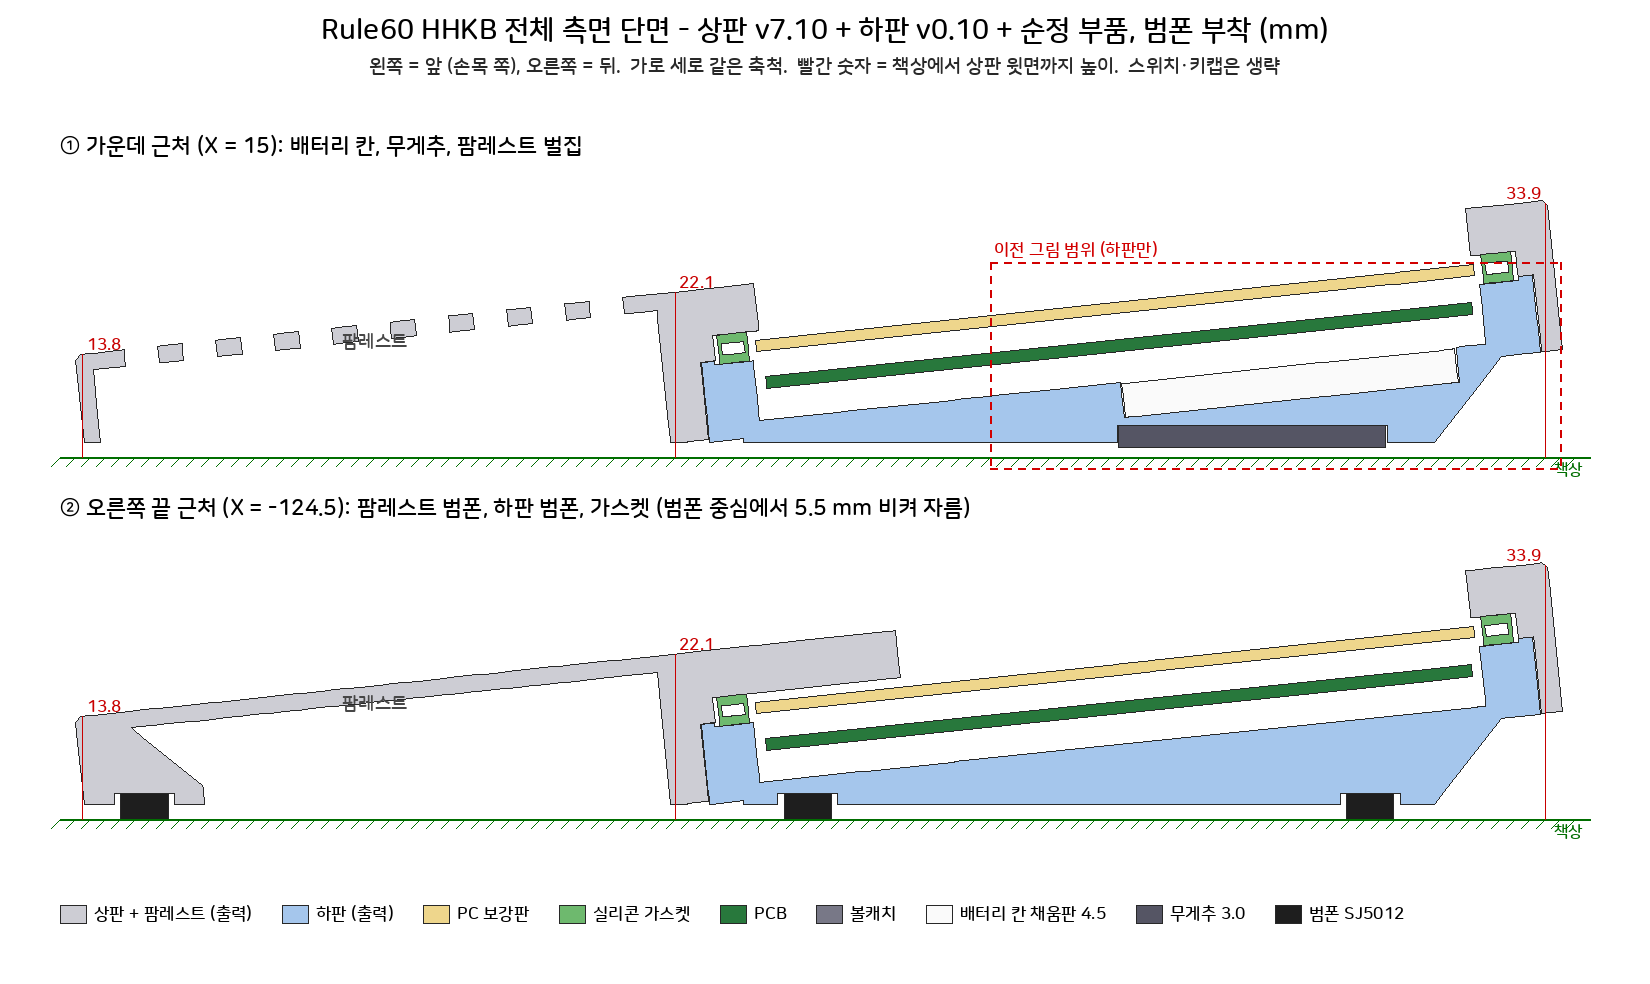
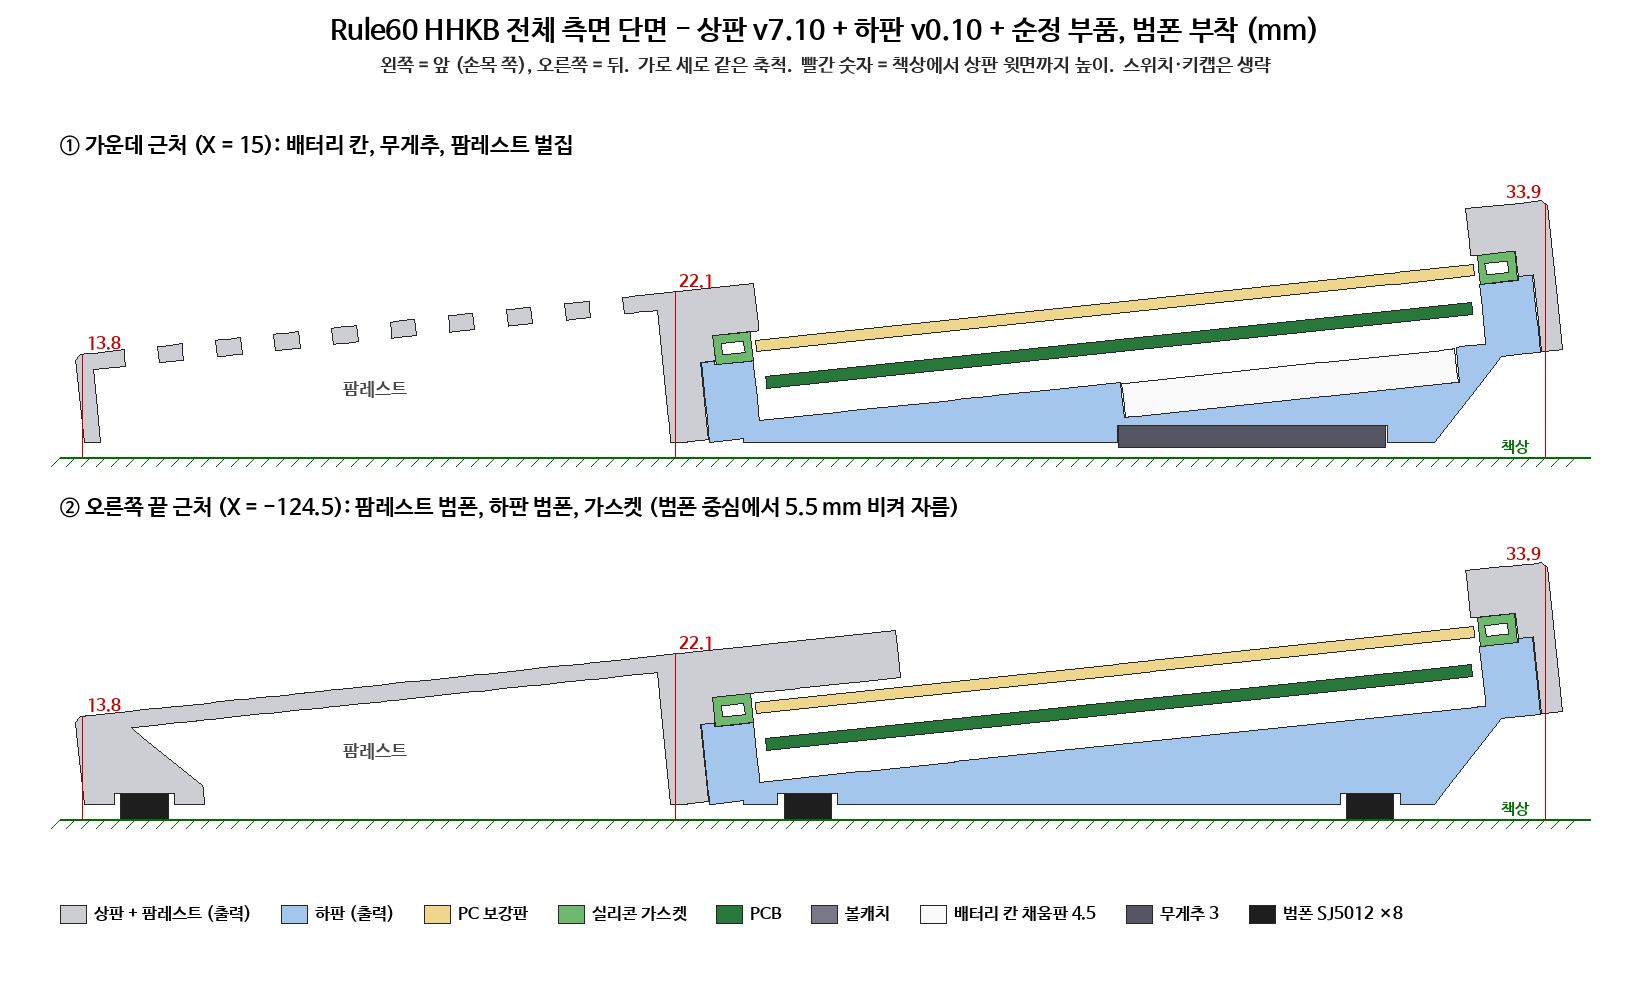
Re-render every model-derived evidence figure from top case v7.10 / bottom case v0.10
Bottom case: v0.7-end, v0.7-underside-plan, v0.8-seam-plan, v0.8-exploded
become v0.10-* (corner-only bumpons, 2.3 mm weight recess, 4.69 bay, named
seam catches); v0.10-full-side-section now cuts the manifold3d top case and
the current Keebox caps, without the stale 'previous crop' box.
Top case: seams-v7.4 -> seams-v7.10, outline-overlay-v4 -> v7.10 (edges at
true Z_p, measured photo-model gaps in the legend), strike-pocket-fit-v4.3 ->
v7.10 (Z_p 5.92 sections, ray-cast of the current mesh into IMG_0218/0222 with
the original camera poses, misfit 0.149 / 0.366). References in
evidence/topcase/README.md and the spec source string follow the new names.
Measurement guides and the annotated stock photo are unchanged: they are not
model renders.

diff --git a/evidence/topcase/README.md b/evidence/topcase/README.md
@@ -57,7 +57,7 @@ Readings not used:
 | --- | --- | --- |
 | Strike positions (plate frame) | BL 89.85, BR 196.70, FL 90.22, FR 196.28 | Homography of [IMG_0201](photos/IMG_0201.jpg) on the 8 top-mount holes of the DWG `6095(top)` plate, RMS 0.13 mm ([ball-catch-analysis.json](analysis/ball-catch-analysis.json)) |
 | Strike plate | ~20.5 × 6.55 mm, M2 at 13.0 mm pitch, tongue 3.55 × ~5.7 mm | Same analysis plus two-view silhouette fit of IMG_0218 / IMG_0222 |
-| Strike pocket "mushroom" end reliefs | 7.25 wide, 4.1 lobe 4.55 past the plate end, end wall 2.15 past, R0.85 shoulder | Two-view ray-cast silhouette fit, IMG_0218 + IMG_0222 (13 mm-eq. ultra-wide, f = 1485 px) ([fit](analysis/strike-pocket-fit-v4.3.png)) |
+| Strike pocket "mushroom" end reliefs | 7.25 wide, 4.1 lobe 4.55 past the plate end, end wall 2.15 past, R0.85 shoulder | Two-view ray-cast silhouette fit, IMG_0218 + IMG_0222 (13 mm-eq. ultra-wide, f = 1485 px) ([fit](analysis/strike-pocket-fit-v7.10.png)) |
 | Back strike distance from the inner back wall | BL 4.15, BR 4.30 | Same fit; kept when the measured outline moved the wall |
 | Front strike distance from the inner front wall | 4.26 | **Not measured**: centred between the front wall and the plate edge |
 | Silicone gasket cap | 8.3 × 5.5 × 4.5 free; 8.2 × 4.0 footprint (the pocket basis). The part itself is the Keebox cap, 8.0 × 5.0 × 5.0 with a 6.5 × 2.8 × 1.2 slot (listing drawing; the owner confirmed it as the stock cap, 2026-11-01) | Rectified underside photo, 28 px/mm ([annotated](analysis/underside-photo-annotated.jpg)) |
@@ -98,14 +98,14 @@ strikes are nearly symmetric, so it could not reveal the v6.2 mirror image.
 | File | Content |
 | --- | --- |
 | [underside-photo-annotated.jpg](analysis/underside-photo-annotated.jpg) | Rectified stock underside with gasket caps, strikes and holes marked |
-| [outline-overlay-v4.png](analysis/outline-overlay-v4.png) | v4 model outline over the rectified photo (superseded outline; shows the method) |
-| [strike-pocket-fit-v4.3.png](analysis/strike-pocket-fit-v4.3.png) | Two-view strike-pocket silhouette fit |
+| [outline-overlay-v7.10.png](analysis/outline-overlay-v7.10.png) | v7.10 model edges at their true depth over the rectified photo, coloured by Z_p level; photo − model edge gaps −0.90 to +0.48 mm, largest at the front lip |
+| [strike-pocket-fit-v7.10.png](analysis/strike-pocket-fit-v7.10.png) | Two-view strike-pocket silhouette fit (pocket shape fitted on v4.3, unchanged since), redrawn with the v7.10 mesh: Z_p 5.92 sections of the 4 pockets and the BR pocket ray-cast into both photos, 1−R² 0.149 / 0.366 |
 | [measurement-guide.png](analysis/measurement-guide.png) / [.svg](analysis/measurement-guide.svg) | Guide sent to the owner for what to measure |
 | [bottom-measurement-guide.png](analysis/bottom-measurement-guide.png) / [.svg](analysis/bottom-measurement-guide.svg) | Bottom-case guide; the end section is cut from the draft model |
 | [ball-catch-analysis.json](analysis/ball-catch-analysis.json) | Strike/catch positions and hardware size estimates |
 | [dwg-source-manifest.json](analysis/dwg-source-manifest.json) | Source URLs and SHA-256 of the downloaded Rule60 drawings |
 
-## Checks (v7.7)
+## Checks (v7.10)
 
 | File | Content |
 | --- | --- |
@@ -113,8 +113,11 @@ strikes are nearly symmetric, so it could not reveal the v6.2 mirror image.
 | [../topcase-verification-usb-universal.json](../topcase-verification-usb-universal.json) | Same checks on the `--board universal` build (14.75 mm USB notch, only the right half differs) |
 | [../topcase-report.json](../topcase-report.json) | Build report: Z stack, pocket outlines, back seam, dovetails, USB-C notch |
 | [checks/as-printed-check.json](checks/as-printed-check.json) | v7.4: same checks on both halves rebuilt at the printed layer heights, plan clearances to the stock parts, slicer estimates. One finding: the wedge-key tip bears after ~0.15 mm of its 0.20 mm vertical glue line. v7.5–v7.10 changed only the wrist-rest bumpon pads and the USB-C notch position, away from every joint. |
-| [checks/seams-v7.4.png](checks/seams-v7.4.png) | Split line, back-seam plan at the BL strike, and sections through the 3 dovetails and the wedge key (unchanged since v7.4) |
+| [checks/seams-v7.10.png](checks/seams-v7.10.png) | Split line, back-seam plan at the BL strike, and sections through the 3 dovetails and the wedge key (joints unchanged since v7.4) |
 
-`as-printed-check.json` and the seam image were produced during the design
-session, not by `build_topcase_draft.py`; regenerate them by hand if the
-geometry changes.
+`as-printed-check.json` and every figure under `analysis/`, `checks/` and
+[../bottomcase/](../bottomcase/) were produced during the design session, not
+by the build scripts; regenerate them by hand if the geometry changes. The
+model figures (outline overlay, strike-pocket fit, seams, bottom-case figures)
+were last re-rendered from top case v7.10 (manifold3d build) and bottom case
+v0.10; the measurement guides are the ones sent to the owner.
